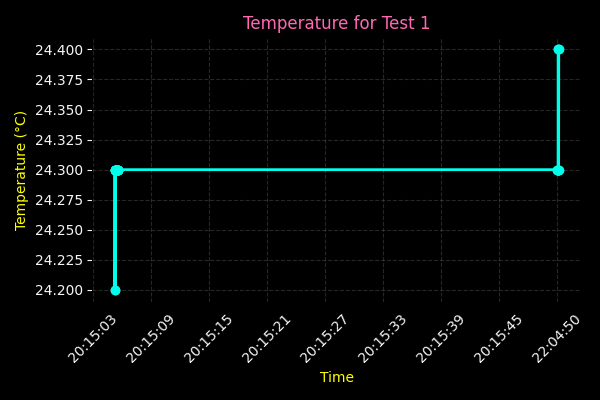
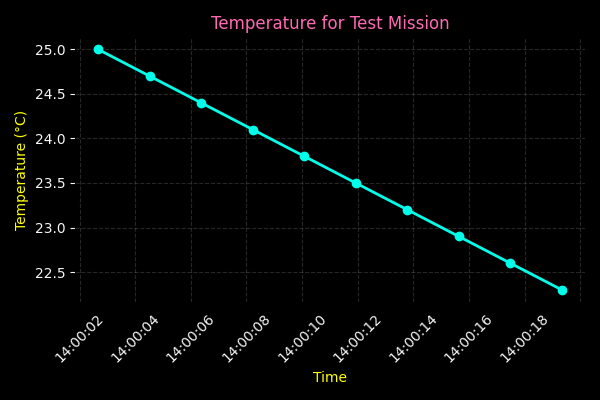
Update backend endpoint, update requirements.txt, and upload new image

diff --git a/dashboard/script.js b/dashboard/script.js
@@ -1,4 +1,5 @@
-const API_BASE = 'http://localhost:8001'; // backend 
+// const API_BASE = 'http://localhost:8001'; // backend
+const API_BASE = 'http://3.15.137.87:8001'; // deployed backend 
 
 // --- Create starfield ---
 const starCount = 100; // number of stars
